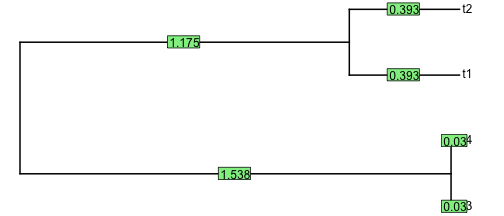
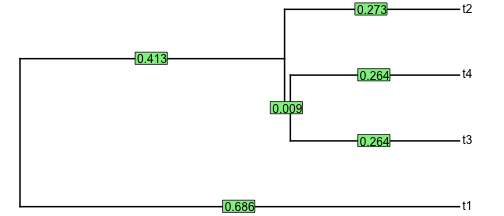
lecture 6 reallly this time

Changed region(s): [[0.0298, 0.0, 0.9524, 1.0], [0.9226, 0.3333, 0.9524, 0.3611]]

diff --git a/GMcourse/Lectures/06-ShapeStatistics1.html b/GMcourse/Lectures/06-ShapeStatistics1.html
@@ -266,8 +266,8 @@ PCA$rot[, 1:5]
 ```
 
 
-<div class="datatables html-widget html-fill-item-overflow-hidden html-fill-item" id="htmlwidget-293896e7e6bf74bb4c1a" style="width:100%;height:auto;"></div>
-<script type="application/json" data-for="htmlwidget-293896e7e6bf74bb4c1a">{"x":{"filter":"none","vertical":false,"fillContainer":false,"data":[["1.X","1.Y","2.X","2.Y","3.X","3.Y","4.X","4.Y","5.X","5.Y","6.X","6.Y","7.X","7.Y","8.X","8.Y","9.X","9.Y","10.X","10.Y","11.X","11.Y","12.X","12.Y"],[-0.18519,0.05405,-0.25751,0.12104,0.24555,0.08671,0.01913,0.01574,0.03013,-0.06,0.03942,-0.07298,-0.03292,-0.15883,-0.07436,-0.02267,-0.1294,0.14563,-0.14615,0.04686,0.78142,-0.05272,-0.29012,-0.10285],[0.44578,0.26015,0.14487,0.35368,0.06079,0.15116,-0.00471,-0.10675,-0.04475,-0.10706,-0.02427,-0.16916,-0.14499,-0.08201,-0.0491,-0.01583,0.0163,0.10257,0.07706,0.13217,-0.18989,0.04808,-0.28709,-0.56701],[0.22986,-0.08275,0.21506,0.10056,0.32681,0.00228,-0.20322,0.35931,-0.19877,0.15439,-0.17122,0.00981,-0.21542,-0.18189,0.06254,-0.16576,0.18179,-0.23899,0.07886,-0.13614,0.01087,-0.20317,-0.31717,0.38235],[-0.26247,0.11272,-0.01087,0.46841,0.47658,-0.04908,-0.11434,-0.00444,-0.05717,0.12899,0.1062,0.0582,0.08944,0.01527,-0.1435,-0.17252,-0.17443,-0.1315,-0.16718,-0.21664,-0.17314,-0.06654,0.43089,-0.14288],[-0.16719,0.22104,0.02176,-0.25447,0.44786,0.02916,-0.0437,-0.44113,-0.16144,-0.22846,-0.05394,0.14802,0.0188,0.27939,-0.08595,0.08478,0.38216,0.11626,-0.05794,0.12139,-0.12552,-0.17414,-0.1749,0.09816]],"container":"<table class=\"display\">\n  <thead>\n    <tr>\n      <th> <\/th>\n      <th>Comp1<\/th>\n      <th>Comp2<\/th>\n      <th>Comp3<\/th>\n      <th>Comp4<\/th>\n      <th>Comp5<\/th>\n    <\/tr>\n  <\/thead>\n<\/table>","options":{"pageLength":3,"columnDefs":[{"className":"dt-right","targets":[1,2,3,4,5]},{"orderable":false,"targets":0}],"order":[],"autoWidth":false,"orderClasses":false,"lengthMenu":[3,10,25,50,100]}},"evals":[],"jsHooks":[]}</script>
+<div class="datatables html-widget html-fill-item-overflow-hidden html-fill-item" id="htmlwidget-d59b8bb75532799207fb" style="width:100%;height:auto;"></div>
+<script type="application/json" data-for="htmlwidget-d59b8bb75532799207fb">{"x":{"filter":"none","vertical":false,"fillContainer":false,"data":[["1.X","1.Y","2.X","2.Y","3.X","3.Y","4.X","4.Y","5.X","5.Y","6.X","6.Y","7.X","7.Y","8.X","8.Y","9.X","9.Y","10.X","10.Y","11.X","11.Y","12.X","12.Y"],[-0.18519,0.05405,-0.25751,0.12104,0.24555,0.08671,0.01913,0.01574,0.03013,-0.06,0.03942,-0.07298,-0.03292,-0.15883,-0.07436,-0.02267,-0.1294,0.14563,-0.14615,0.04686,0.78142,-0.05272,-0.29012,-0.10285],[0.44578,0.26015,0.14487,0.35368,0.06079,0.15116,-0.00471,-0.10675,-0.04475,-0.10706,-0.02427,-0.16916,-0.14499,-0.08201,-0.0491,-0.01583,0.0163,0.10257,0.07706,0.13217,-0.18989,0.04808,-0.28709,-0.56701],[0.22986,-0.08275,0.21506,0.10056,0.32681,0.00228,-0.20322,0.35931,-0.19877,0.15439,-0.17122,0.00981,-0.21542,-0.18189,0.06254,-0.16576,0.18179,-0.23899,0.07886,-0.13614,0.01087,-0.20317,-0.31717,0.38235],[-0.26247,0.11272,-0.01087,0.46841,0.47658,-0.04908,-0.11434,-0.00444,-0.05717,0.12899,0.1062,0.0582,0.08944,0.01527,-0.1435,-0.17252,-0.17443,-0.1315,-0.16718,-0.21664,-0.17314,-0.06654,0.43089,-0.14288],[-0.16719,0.22104,0.02176,-0.25447,0.44786,0.02916,-0.0437,-0.44113,-0.16144,-0.22846,-0.05394,0.14802,0.0188,0.27939,-0.08595,0.08478,0.38216,0.11626,-0.05794,0.12139,-0.12552,-0.17414,-0.1749,0.09816]],"container":"<table class=\"display\">\n  <thead>\n    <tr>\n      <th> <\/th>\n      <th>Comp1<\/th>\n      <th>Comp2<\/th>\n      <th>Comp3<\/th>\n      <th>Comp4<\/th>\n      <th>Comp5<\/th>\n    <\/tr>\n  <\/thead>\n<\/table>","options":{"pageLength":3,"columnDefs":[{"className":"dt-right","targets":[1,2,3,4,5]},{"orderable":false,"targets":0}],"order":[],"autoWidth":false,"orderClasses":false,"lengthMenu":[3,10,25,50,100]}},"evals":[],"jsHooks":[]}</script>
 ]
 
 ---
@@ -1157,11 +1157,11 @@ is an analysis that finds phylogenetically aligned components of the data (most 
 **Covariance matrix**
 
 ```
-##       t3    t4    t1    t2
-## t3 1.568 1.538 0.000 0.000
-## t4 1.538 1.568 0.000 0.000
-## t1 0.000 0.000 1.568 1.175
-## t2 0.000 0.000 1.175 1.568
+##       t1    t3    t4    t2
+## t1 0.686 0.000 0.000 0.000
+## t3 0.000 0.686 0.422 0.413
+## t4 0.000 0.422 0.686 0.413
+## t2 0.000 0.413 0.413 0.686
 ```
 ]
 
@@ -2315,8 +2315,36 @@ summary(PLSallometry)
 
 All of these purposes are helpful for inferential statistics, the more prominent theme in **Shape Statistics II**.
 
+---
+
+### Revisiting Linear Algebra Goals
+.pull-left[.med[
+
+`$$\small\mathbf{Z}=[trace[\mathbf{(Y-\overline{Y})(Y-\overline{Y})^T}]]^{-1/2}\mathbf{(Y-\overline{Y})H}$$`
+
+**Should be more obvious now, although it probably looks more obvious as `\(\small\mathbf{Z}=CS^{-1}\mathbf{(Y-\overline{Y})H}\)`**.
+
+Procrustes coordinates: linear transformation of coordinate data.
+
+----
+
+`$$\hat{\boldsymbol{\beta}}=\left ( \mathbf{\tilde{X}}^{T} \mathbf{\tilde{X}}\right )^{-1}\left ( \mathbf{\tilde{X}}^{T} \mathbf{Z}\right )$$`
+
+**Estimation of linear model coefficients for transformed data, `\(\mathbf{Z}\)`, which Procrustes coordinates are.** 
+
+Coefficients:  transformation of the data, based on model parameters.
+
+----
+]]
+
+.pull-right[.med[
 
 
+`$$\mathbf{A}^T\mathbf{Z} =\mathbf{UDV}^T$$`
+
+The decomposition of some form of data alignment: hopefully this makes sense now!
+
+]]
 
     </textarea>
 <style data-target="print-only">@media screen {.remark-slide-container{display:block;}.remark-slide-scaler{box-shadow:none;}}</style>
